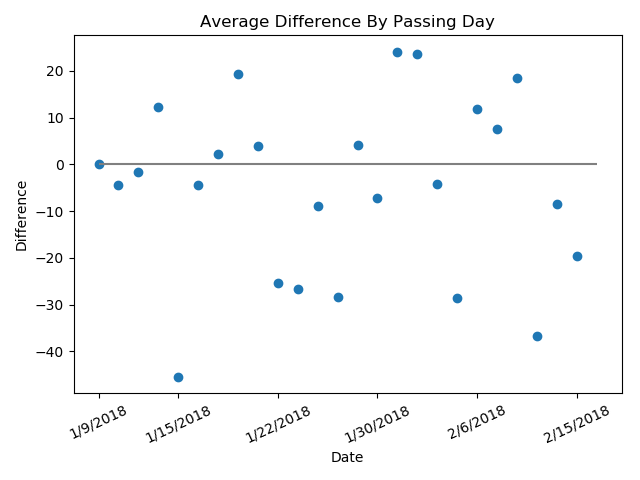
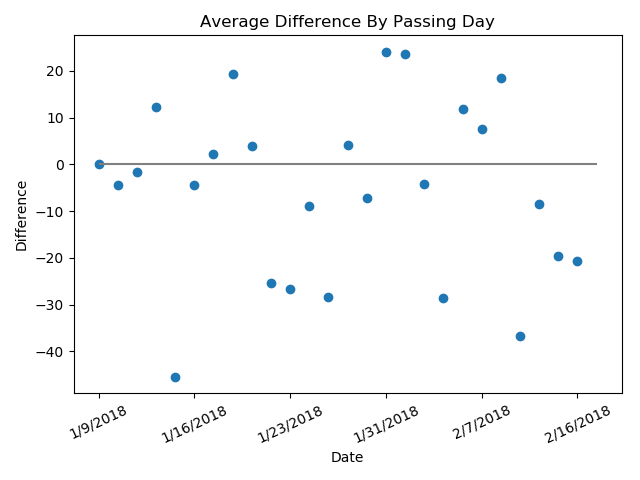
update 2/20

diff --git a/pjeej.py b/pjeej.py
@@ -30,6 +30,8 @@ with open("timein.csv","a",newline="") as csvfile:
 	#writer.writerow(["2/13/2018","Tuesday","8:13", "27"]) #[9]
 	#writer.writerow(["2/14/2018","Wednesday","8:41", "37"])
 	#writer.writerow(["2/15/2018","Thursday","8:29", "47"])
+	#writer.writerow(["2/16/2018","Friday","8:27", "54"]) #[10]	
+	writer.writerow(["2/20/2018","Tuesday","8:45", "53"]) 
 # [1] according to him, left at 8:30 night before 1/12/2018
 # [2] came in before I did 1/15
 # [3] did not check temperature until 9:50 1/15
@@ -39,3 +41,4 @@ with open("timein.csv","a",newline="") as csvfile:
 # [7] according to Elias, stayed late for BMH-171 9:30
 # [8] stayed late for BMH-171 (after 7:00 PM)
 # [9] came in before I did after two day absence plus encounter on Thursday
+# [10] was out of the room from about 8:24 to 8:37 and he came in during that interval; elias estimated (no help)
